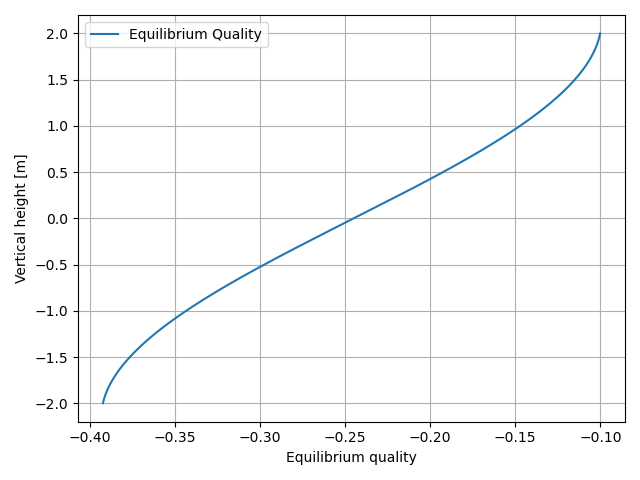
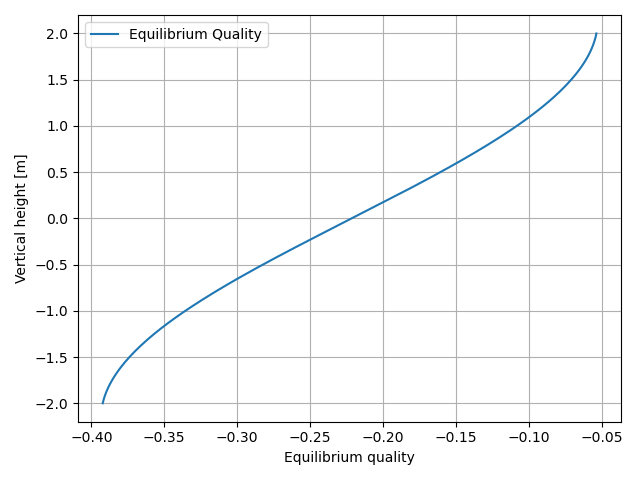
new plots

diff --git a/hw8 PWR.py b/hw8 PWR.py
@@ -117,7 +117,7 @@ def frictionfactor(re):
 def deltaP(rho, f, drho):
     var = 0.5*f*(G**2/rho)*(wet_perim/area) + rho*g
     if drho != 0:
-        return -1*(var + .5*(G**2)/drho)
+        return -1*(var + (G**2)*drho)
     else:
         return -1*var
 
@@ -184,16 +184,16 @@ if option == 1 :
         for i in range(1, len(zs)):
             #print(i)
             
-            '''
+        
             if i != 1 :
-                drho = (rhos[i-1]-rhos[i-2])/deltaz
+                drho = ((1/(rhos[i-1]))-(1/rhos[i-2])) * (1/(deltaz))
             else:
                 drho = 0
             
-            print(f"drho = {drho}")
-            '''
+            #print(f"drho = {drho}")
+            
 
-            deltaPCurrent = deltaP(rhos[0], frics[0], 0) #delta P / delta z
+            deltaPCurrent = deltaP(rhos[0], frics[0], 0) #delta P / delta z using constant properties
             #print(f"delta P = {deltaPCurrent}")
 
             newP = deltaPCurrent*deltaz + Ps[i-1]
@@ -216,11 +216,11 @@ if option == 1 :
             T_f_s.append(newT_f)
             hs.append(newh)
 
-            #rhos.append(tempPresProp(pres=Ps[i], temp=T_f_s[i], prop="rho"))
+            rhos.append(tempPresProp(pres=Ps[i], temp=T_f_s[i], prop="rho"))
             #print(rhos[i])
-            #mus.append(tempPresProp(pres=Ps[i], temp=T_f_s[i], prop="dynVisc"))
-            #Res.append(reynolds(mus[i]))
-            #frics.append(frictionfactor(Res[i]))
+            mus.append(tempPresProp(pres=Ps[i], temp=T_f_s[i], prop="dynVisc"))
+            Res.append(reynolds(mus[i]))
+            frics.append(frictionfactor(Res[i]))
             
             #print(f"P_{i} = {Ps[i]}, T_f_{i} = {T_f_s[i]}, Xe_{i}={Xes[i]}")
             #print(f"rho_{i} = {rhos[i]}, mu_{i} = {mus[i]}")
@@ -258,13 +258,13 @@ if option == 1 :
         #ax.plot(qlins, zs,  label="q\'")
         #ax.plot(np.array(Ps)/(10**6), zs, label="Fluid Pressure")
 
-        #ax.plot(Tsats, zs, label="Saturation Temperature")
-        ax.plot(T_f_s, zs, label="Fluid Temperature")
-        #ax.plot(T_f_c, zs, label="Centerline Temperature")
-        #ax.plot(T_c_in, zs, label="Inner Clad Surface Temperature")
         ax.plot(T_c_out, zs, label="Outer Clad Surface Temperature")
+        ax.plot(T_f_s, zs, label="Fluid Temperature")
+        #ax.plot(T_f_c, zs, label="Centerline Temperature")        
+        #ax.plot(Tsats, zs, label="Saturation Temperature")
+        #ax.plot(T_c_in, zs, label="Inner Clad Surface Temperature")
 
-        #ax.plot(Xes, zs, label=f"Equilibrium Quality - $\Delta z$ = {deltaz:0.2f}m")
+        #ax.plot(Xes, zs, label=f"Equilibrium Quality")
 
         #ax.plot(rhos, zs, label="Densities")
         #ax.plot(mus, zs, label="Dynamic Viscosities")
@@ -275,7 +275,7 @@ if option == 1 :
 
 #ax.set_xscale('log')
 ax.set_ylabel(f"Vertical height [m]")
-ax.set_xlabel(f"Equilibrium quality")
+ax.set_xlabel(f"Temperature $^\circ$C")
 ax.grid()
 ax.legend()
 plt.tight_layout()
